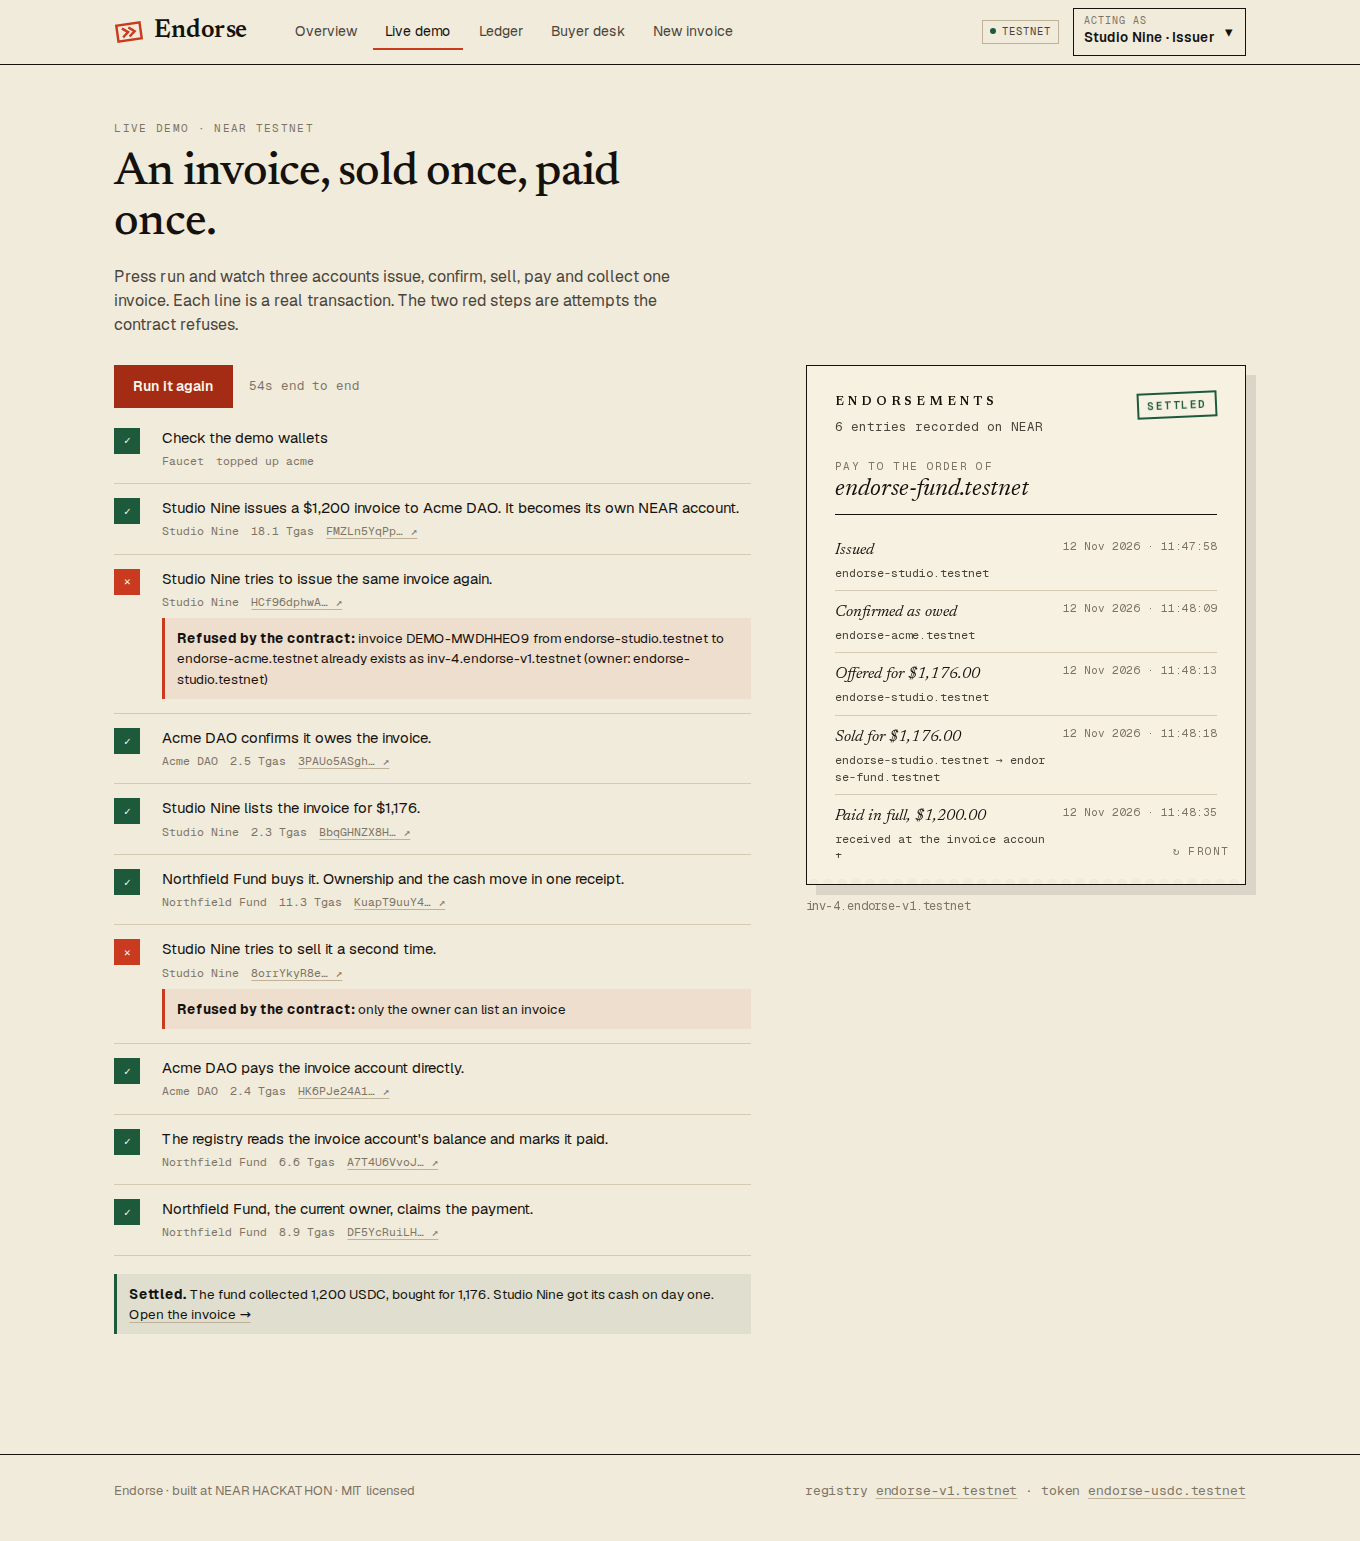
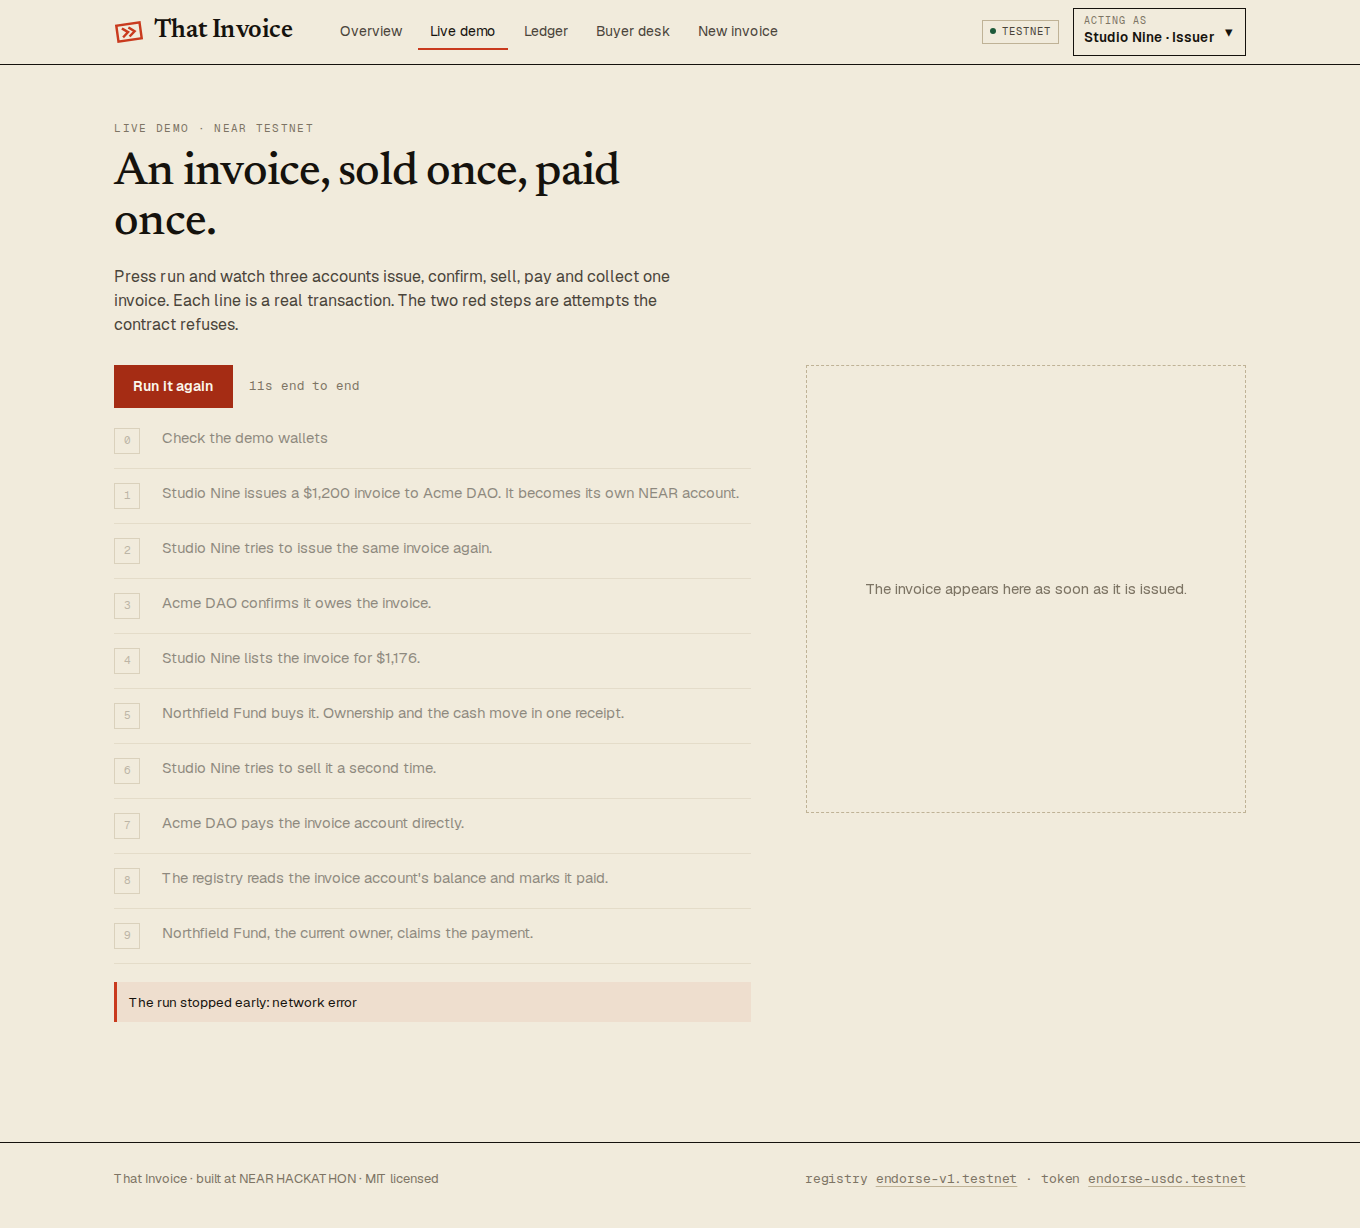
Demo runs as a server-side job; clients reconnect and replay

diff --git a/apps/web/app/demo/page.tsx b/apps/web/app/demo/page.tsx
@@ -36,6 +36,7 @@ export default function DemoPage() {
   const [invoiceId, setInvoiceId] = useState<string | null>(null);
   const [fatal, setFatal] = useState<string | null>(null);
   const [done, setDone] = useState(false);
+  const [reconnecting, setReconnecting] = useState(false);
   const [flipped, setFlipped] = useState(false);
   const t0 = useRef(0);
   const [elapsed, setElapsed] = useState<number | null>(null);
@@ -54,35 +55,63 @@ export default function DemoPage() {
     setElapsed(null);
     setRunning(true);
     t0.current = Date.now();
+    // The run lives on the server, so a dropped connection (Wi-Fi blip, mobile network change) must not
+    // end it: re-attach with GET and the server replays every step so far, then follows live.
+    let method: "POST" | "GET" = "POST";
+    let terminal = false;
+    let attempts = 0;
     try {
-      const res = await fetch("/api/demo/run", { method: "POST" });
-      if (!res.ok || !res.body) {
-        const b = await res.json().catch(() => ({}));
-        throw new Error(b.error ?? `HTTP ${res.status}`);
-      }
-      const reader = res.body.getReader();
-      const dec = new TextDecoder();
-      let buf = "";
-      for (;;) {
-        const { value, done: end } = await reader.read();
-        if (end) break;
-        buf += dec.decode(value, { stream: true });
-        let cut: number;
-        while ((cut = buf.indexOf("\n\n")) >= 0) {
-          const block = buf.slice(0, cut);
-          buf = buf.slice(cut + 2);
-          const line = block.split("\n").find((l) => l.startsWith("data:"));
-          if (!line) continue;
-          handle(JSON.parse(line.slice(5)));
+      while (!terminal && attempts < 8) {
+        try {
+          const res = await fetch("/api/demo/run", { method });
+          if (!res.ok || !res.body) {
+            const b = await res.json().catch(() => ({}));
+            throw Object.assign(new Error(b.error ?? `HTTP ${res.status}`), { fatal: true });
+          }
+          terminal = await readStream(res.body);
+        } catch (e) {
+          if ((e as { fatal?: boolean }).fatal) throw e;
+        }
+        if (!terminal) {
+          method = "GET";
+          attempts += 1;
+          setReconnecting(true);
+          await new Promise((r) => setTimeout(r, Math.min(1000 * attempts, 4000)));
         }
       }
+      if (!terminal) throw new Error("lost the connection to the server");
     } catch (e) {
       setFatal(e instanceof Error ? e.message : "demo failed");
     } finally {
+      setReconnecting(false);
       setRunning(false);
       setElapsed(Math.round((Date.now() - t0.current) / 1000));
       refresh();
     }
+  }
+
+  async function readStream(body: ReadableStream<Uint8Array>): Promise<boolean> {
+    const reader = body.getReader();
+    const dec = new TextDecoder();
+    let buf = "";
+    let sawTerminal = false;
+    for (;;) {
+      const { value, done: end } = await reader.read();
+      if (end) break;
+      buf += dec.decode(value, { stream: true });
+      let cut: number;
+      while ((cut = buf.indexOf("\n\n")) >= 0) {
+        const block = buf.slice(0, cut);
+        buf = buf.slice(cut + 2);
+        const line = block.split("\n").find((l) => l.startsWith("data:"));
+        if (!line) continue;
+        const m = JSON.parse(line.slice(5));
+        setReconnecting(false);
+        handle(m);
+        if (m.kind === "done" || m.kind === "error") sawTerminal = true;
+      }
+    }
+    return sawTerminal;
   }
 
   function handle(m: any) {
@@ -123,7 +152,7 @@ export default function DemoPage() {
               {running ? (<><span className="spin" /> Running…</>) : done || fatal ? "Run it again" : "Run the demo"}
             </button>
             <span className="mono muted" style={{ fontSize: 12.5 }}>
-              {running ? `${completed}/10 steps` : elapsed !== null ? `${elapsed}s end to end` : "about 45 seconds"}
+              {reconnecting ? "reconnecting to the run…" : running ? `${completed}/10 steps` : elapsed !== null ? `${elapsed}s end to end` : "about 45 seconds"}
             </span>
           </div>
           <ol className="timeline">

diff --git a/services/api/src/app.rs b/services/api/src/app.rs
@@ -39,6 +39,8 @@ pub struct AppState {
     pub last_ok: RwLock<Option<Instant>>,
     pub updates: broadcast::Sender<String>,
     pub demo_running: AtomicBool,
+    /// The current (or most recent) guided demo run, so clients can reconnect and replay it.
+    pub demo: Mutex<Option<Arc<DemoRun>>>,
     pub act_log: Mutex<VecDeque<Instant>>,
     /// Hourly caps on the two operations that spend the demo accounts' NEAR.
     pub issue_log: Mutex<VecDeque<Instant>>,
@@ -49,6 +51,51 @@ pub struct AppState {
 }
 
 pub type Shared = Arc<AppState>;
+
+/// A guided-demo run that executes on the server regardless of whether a browser stays connected.
+pub struct DemoRun {
+    events: Mutex<Vec<Value>>,
+    tx: broadcast::Sender<Value>,
+}
+
+impl DemoRun {
+    fn new() -> Self {
+        Self { events: Mutex::new(Vec::new()), tx: broadcast::channel(64).0 }
+    }
+    async fn push(&self, v: Value) {
+        self.events.lock().await.push(v.clone());
+        let _ = self.tx.send(v);
+    }
+}
+
+fn is_terminal(v: &Value) -> bool {
+    matches!(v["kind"].as_str(), Some("done") | Some("error"))
+}
+
+/// Replay everything so far, then follow live until the run ends. Safe to call again after a dropped connection.
+fn attach(run: Arc<DemoRun>) -> Sse<impl Stream<Item = Result<Event, std::convert::Infallible>>> {
+    let s = async_stream::stream! {
+        let mut rx = run.tx.subscribe();
+        let snapshot = run.events.lock().await.clone();
+        for v in snapshot {
+            let t = is_terminal(&v);
+            yield Ok(Event::default().json_data(&v).unwrap());
+            if t { return; }
+        }
+        loop {
+            match rx.recv().await {
+                Ok(v) => {
+                    let t = is_terminal(&v);
+                    yield Ok(Event::default().json_data(&v).unwrap());
+                    if t { break; }
+                }
+                Err(broadcast::error::RecvError::Lagged(_)) => continue,
+                Err(_) => break,
+            }
+        }
+    };
+    Sse::new(s).keep_alive(KeepAlive::new().interval(Duration::from_secs(10)))
+}
 
 pub struct ApiError(pub StatusCode, pub String);
 impl IntoResponse for ApiError {
@@ -81,7 +128,7 @@ pub fn router(state: Shared) -> Router {
         .route("/api/invoices/{id}", get(get_invoice))
         .route("/api/debtors/{account}", get(get_debtor))
         .route("/api/act", post(act))
-        .route("/api/demo/run", post(demo_run))
+        .route("/api/demo/run", post(demo_run).get(demo_attach))
         .route("/api/events", get(events))
         .route("/api/quote", get(get_quote))
         .route("/api/docs", post(post_doc))
@@ -445,15 +492,40 @@ async fn act(State(st): State<Shared>, Json(req): Json<ActReq>) -> Result<Json<V
 // ───────────────────────────── demo, quote, docs ─────────────────────────────
 
 async fn demo_run(State(st): State<Shared>) -> Result<Sse<impl Stream<Item = Result<Event, std::convert::Infallible>>>, ApiError> {
+    // A run already in progress is shared: a second visitor watches the same one.
     if st.demo_running.swap(true, Ordering::SeqCst) {
-        return Err(ApiError(StatusCode::CONFLICT, "a demo run is already in progress".into()));
+        let run = st.demo.lock().await.clone();
+        return match run {
+            Some(r) => Ok(attach(r)),
+            None => Err(ApiError(StatusCode::CONFLICT, "a demo run is already in progress".into())),
+        };
     }
     if !within(&st.demo_log, 12, Duration::from_secs(3600)).await {
         st.demo_running.store(false, Ordering::SeqCst);
         return Err(ApiError(StatusCode::TOO_MANY_REQUESTS, "the live demo is limited to 12 runs an hour; try again later".into()));
     }
-    let s = demo::stream(st.clone());
-    Ok(Sse::new(s).keep_alive(KeepAlive::new().interval(Duration::from_secs(10))))
+    let run = Arc::new(DemoRun::new());
+    *st.demo.lock().await = Some(run.clone());
+    let worker = run.clone();
+    let st2 = st.clone();
+    // The run belongs to the server, not to the HTTP connection: a dropped browser does not stop it.
+    tokio::spawn(async move {
+        use futures::StreamExt;
+        let s = demo::stream(st2);
+        futures::pin_mut!(s);
+        while let Some(v) = s.next().await {
+            worker.push(v).await;
+        }
+    });
+    Ok(attach(run))
+}
+
+/// Re-attach to the current or latest run (used after a dropped connection).
+async fn demo_attach(State(st): State<Shared>) -> Result<Sse<impl Stream<Item = Result<Event, std::convert::Infallible>>>, ApiError> {
+    match st.demo.lock().await.clone() {
+        Some(r) => Ok(attach(r)),
+        None => Err(ApiError(StatusCode::NOT_FOUND, "no demo run to attach to".into())),
+    }
 }
 
 #[derive(Deserialize)]

diff --git a/services/api/src/demo.rs b/services/api/src/demo.rs
@@ -2,9 +2,8 @@
 //! streams each step to the browser as it lands. Nothing is simulated. Each step carries the
 //! explorer link of the transaction that did it.
 
-use std::{convert::Infallible, sync::atomic::Ordering};
+use std::sync::atomic::Ordering;
 
-use axum::response::sse::Event;
 use futures::Stream;
 use serde_json::{json, Value};
 
@@ -20,12 +19,13 @@ impl Drop for RunGuard {
 const FACE: &str = "1200";
 const PRICE: &str = "1176";
 
-pub fn stream(st: Shared) -> impl Stream<Item = Result<Event, Infallible>> {
+/// Yields one JSON event per step. Transport (SSE, replay, reconnect) lives in `app.rs`.
+pub fn stream(st: Shared) -> impl Stream<Item = Value> {
     async_stream::stream! {
         let _guard = RunGuard(st.clone());
         let total = 10;
         macro_rules! send {
-            ($v:expr) => { Ok::<Event, Infallible>(Event::default().json_data($v).unwrap()) };
+            ($v:expr) => { $v };
         }
 
         let number = format!("DEMO-{}", to_base36(chrono::Utc::now().timestamp_millis() as u64));

diff --git a/services/api/src/main.rs b/services/api/src/main.rs
@@ -34,6 +34,7 @@ async fn main() -> anyhow::Result<()> {
         last_ok: RwLock::new(None),
         updates: tx,
         demo_running: AtomicBool::new(false),
+        demo: Mutex::new(None),
         act_log: Mutex::new(VecDeque::new()),
         issue_log: Mutex::new(VecDeque::new()),
         demo_log: Mutex::new(VecDeque::new()),
